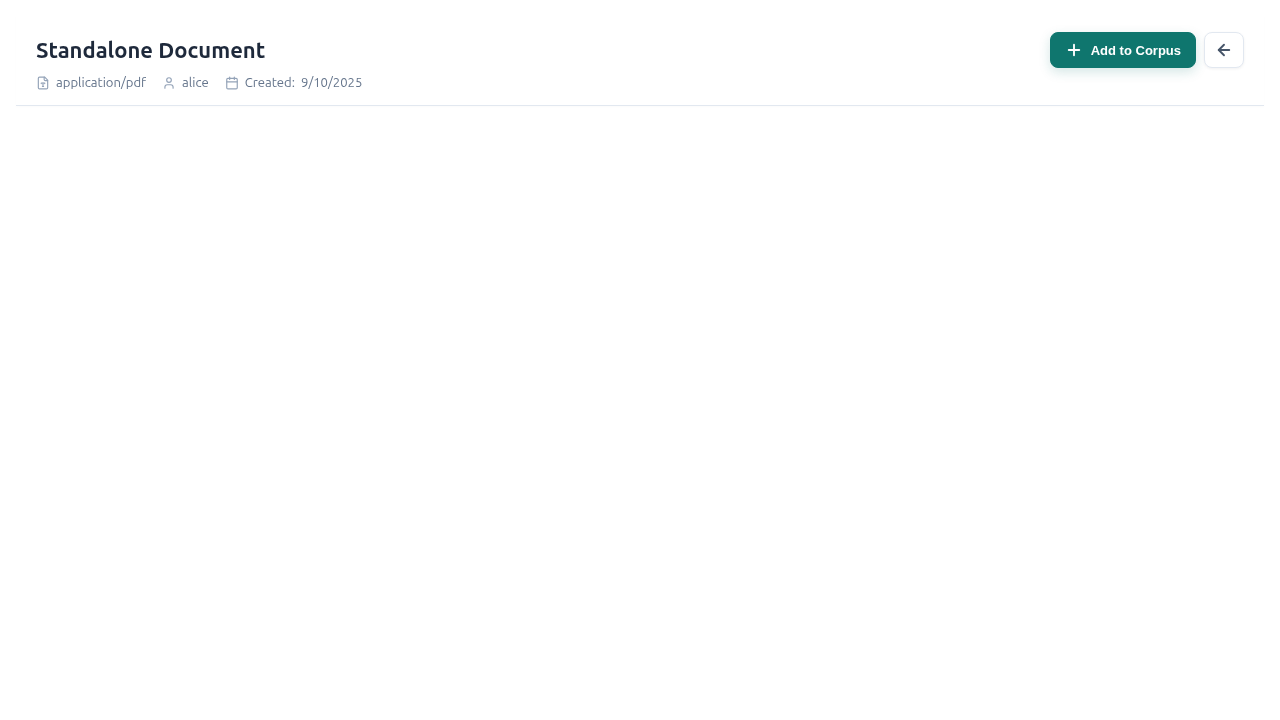
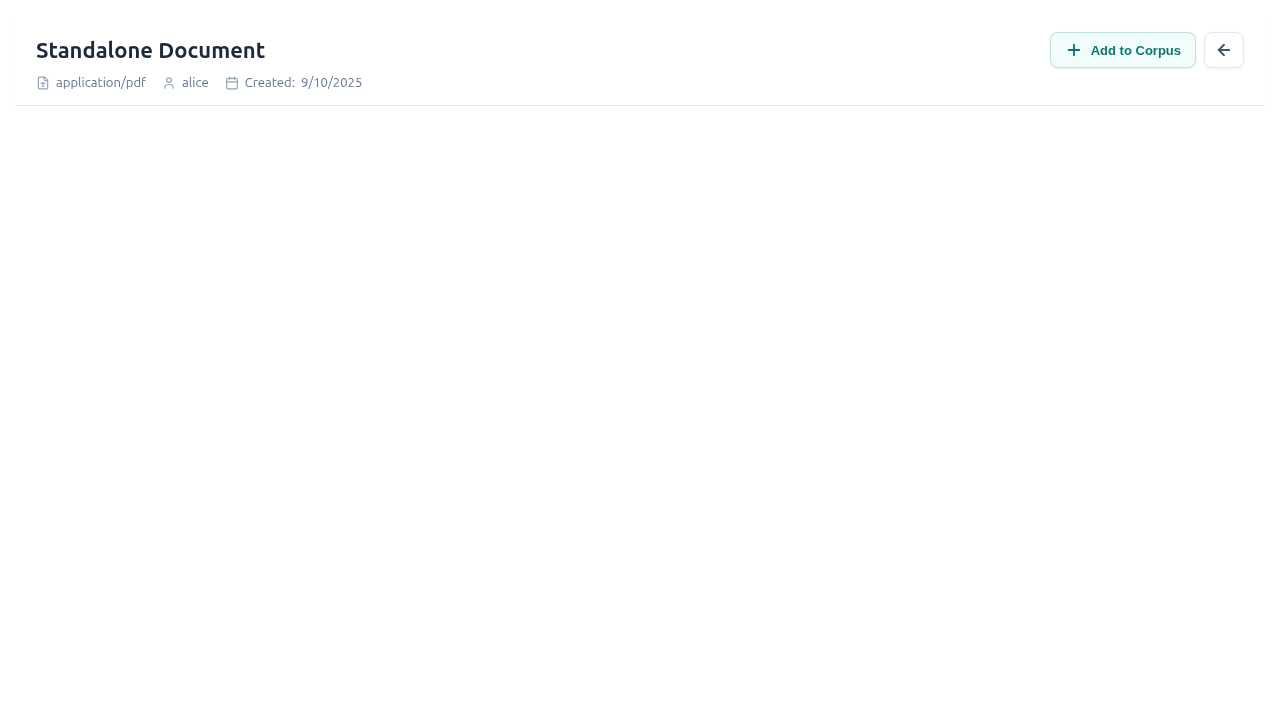
Tighten mobile DKB controls

Changed region(s): [[0.8125, 0.0306, 0.9375, 0.1222]]

diff --git a/frontend/src/components/knowledge_base/document/document_kb/styles.ts b/frontend/src/components/knowledge_base/document/document_kb/styles.ts
@@ -20,14 +20,16 @@ export const HeaderButton = styled.button<{
   padding: 0 ${(props) => (props.$variant === "primary" ? "14px" : "10px")};
   background: ${(props) =>
     props.$variant === "primary"
-      ? OS_LEGAL_COLORS.accent
+      ? OS_LEGAL_COLORS.accentSurface
       : OS_LEGAL_COLORS.surface};
   color: ${(props) =>
-    props.$variant === "primary" ? "white" : OS_LEGAL_COLORS.textTertiary};
+    props.$variant === "primary"
+      ? OS_LEGAL_COLORS.accent
+      : OS_LEGAL_COLORS.textTertiary};
   border: 1px solid
     ${(props) =>
       props.$variant === "primary"
-        ? OS_LEGAL_COLORS.accent
+        ? OS_LEGAL_COLORS.accentMedium
         : OS_LEGAL_COLORS.border};
   border-radius: ${OS_LEGAL_SPACING.borderRadiusButton};
   font-size: ${(props) => (props.$variant === "primary" ? "13px" : "14px")};
@@ -42,7 +44,7 @@ export const HeaderButton = styled.button<{
   gap: ${(props) => (props.$variant === "primary" ? "8px" : "0")};
   box-shadow: ${(props) =>
     props.$variant === "primary"
-      ? `0 4px 12px ${accentAlpha(0.18)}`
+      ? `0 1px 2px ${accentAlpha(0.12)}`
       : "0 1px 3px rgba(15, 23, 42, 0.06)"};
   position: relative;
   overflow: hidden;
@@ -52,15 +54,15 @@ export const HeaderButton = styled.button<{
     transform: translateY(-1px);
     background: ${(props) =>
       props.$variant === "primary"
-        ? OS_LEGAL_COLORS.accentHover
+        ? OS_LEGAL_COLORS.accentLight
         : OS_LEGAL_COLORS.surfaceHover};
     box-shadow: ${(props) =>
       props.$variant === "primary"
-        ? `0 6px 16px ${accentAlpha(0.24)}`
+        ? `0 3px 8px ${accentAlpha(0.16)}`
         : "0 4px 10px rgba(15, 23, 42, 0.08)"};
     border-color: ${(props) =>
       props.$variant === "primary"
-        ? OS_LEGAL_COLORS.accentHover
+        ? OS_LEGAL_COLORS.accent
         : OS_LEGAL_COLORS.borderHover};
   }
 
@@ -68,7 +70,7 @@ export const HeaderButton = styled.button<{
     transform: translateY(0);
     box-shadow: ${(props) =>
       props.$variant === "primary"
-        ? `0 2px 8px ${accentAlpha(0.2)}`
+        ? `0 1px 4px ${accentAlpha(0.12)}`
         : "inset 0 1px 2px rgba(15, 23, 42, 0.08)"};
   }
 
@@ -84,21 +86,23 @@ export const HeaderButton = styled.button<{
   }
 
   @media (max-width: 480px) {
-    height: 34px;
-    padding: 0 ${(props) => (props.$variant === "primary" ? "11px" : "9px")};
-    gap: ${(props) => (props.$variant === "primary" ? "6px" : "0")};
+    width: 36px;
+    height: 36px;
+    padding: 0;
+    justify-content: center;
+    gap: 0;
 
     .header-button-label--desktop {
       display: none;
     }
 
     .header-button-label--mobile {
-      display: inline;
+      display: none;
     }
 
     svg {
-      width: 16px;
-      height: 16px;
+      width: 17px;
+      height: 17px;
     }
   }
 `;

diff --git a/frontend/src/components/knowledge_base/document/FloatingDocumentControls.tsx b/frontend/src/components/knowledge_base/document/FloatingDocumentControls.tsx
@@ -27,12 +27,9 @@ import { AnnotationControls } from "../../annotator/controls/AnnotationControls"
 import { ToggleSwitch } from "../../widgets/ToggleSwitch";
 import { OS_LEGAL_COLORS } from "../../../assets/configurations/osLegalStyles";
 
-const DESKTOP_FLOATING_CONTROLS_BOTTOM =
-  "calc(7rem + env(safe-area-inset-bottom, 0px))";
-const MOBILE_FLOATING_CONTROLS_BOTTOM =
-  "calc(5.5rem + env(safe-area-inset-bottom, 0px))";
-const MOBILE_SETTINGS_PANEL_BOTTOM =
-  "calc(10rem + env(safe-area-inset-bottom, 0px))";
+const DESKTOP_FLOATING_CONTROLS_BOTTOM = "7rem";
+const MOBILE_FLOATING_CONTROLS_BOTTOM = "6rem";
+const MOBILE_SETTINGS_PANEL_BOTTOM = "10.5rem";
 
 const ControlsContainer = styled(motion.div)<{ $panelOffset?: number }>`
   position: fixed;

diff --git a/frontend/src/components/knowledge_base/document/styled/HeaderAndLayout.tsx b/frontend/src/components/knowledge_base/document/styled/HeaderAndLayout.tsx
@@ -25,7 +25,7 @@ export const HeaderContainer = styled.div`
   }
 
   @media (max-width: 480px) {
-    padding: 0.75rem 0.875rem 0.65rem;
+    padding: 0.7rem 0.8rem 0.6rem;
   }
 `;
 
@@ -60,7 +60,7 @@ export const HeaderTitle = styled.h2`
   }
 
   @media (max-width: 480px) {
-    font-size: 1.25rem;
+    font-size: 1.2rem;
   }
 `;
 
@@ -101,7 +101,7 @@ export const MetadataRow = styled.div`
   @media (max-width: 768px) {
     column-gap: 0.875rem;
     row-gap: 0.3rem;
-    font-size: 0.8rem;
+    font-size: 0.78rem;
   }
 
   @media (max-width: 480px) {

diff --git a/frontend/src/components/knowledge_base/document/document_kb/HeaderBar.tsx b/frontend/src/components/knowledge_base/document/document_kb/HeaderBar.tsx
@@ -65,6 +65,7 @@ export const HeaderBar: React.FC<HeaderBarProps> = ({
               $variant="primary"
               onClick={onAddToCorpus}
               title="Add this document to a corpus to unlock collaborative features"
+              aria-label="Add this document to a corpus"
               data-testid="add-to-corpus-button"
             >
               <Plus />
